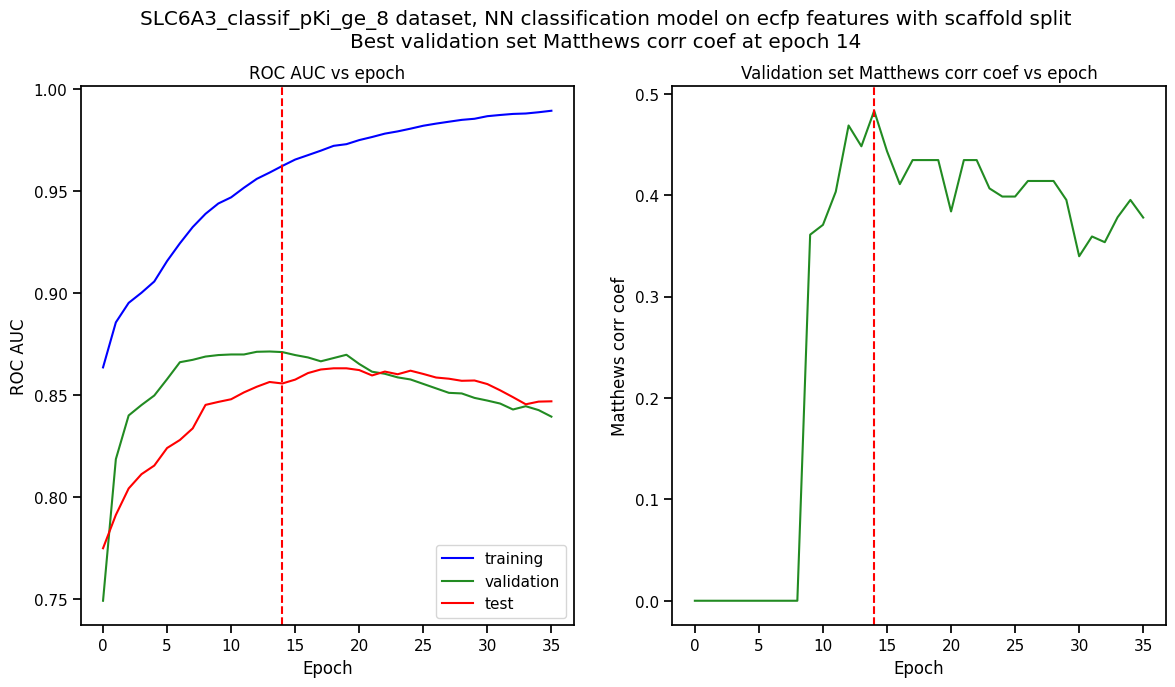
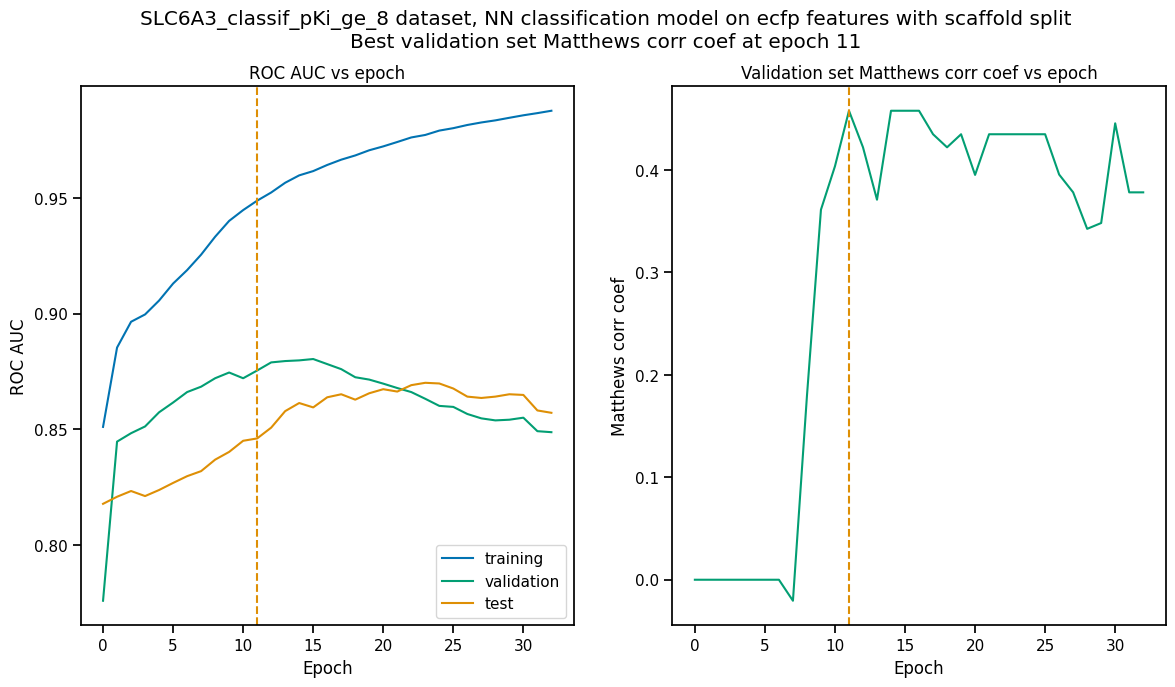
updated 09

diff --git a/atomsci/ddm/docs/source/tutorials/09_visualizations_of_model_performance.rst b/atomsci/ddm/docs/source/tutorials/09_visualizations_of_model_performance.rst
@@ -49,7 +49,17 @@ import some standard packages and modules:
 
 .. parsed-literal::
 
-    Skipped loading some Jax models, missing a dependency. No module named 'jax'
+    2024-05-10 16:13:24.275406: I tensorflow/tsl/cuda/cudart_stub.cc:28] Could not find cuda drivers on your machine, GPU will not be used.
+    2024-05-10 16:13:24.332150: E tensorflow/compiler/xla/stream_executor/cuda/cuda_dnn.cc:9342] Unable to register cuDNN factory: Attempting to register factory for plugin cuDNN when one has already been registered
+    2024-05-10 16:13:24.332221: E tensorflow/compiler/xla/stream_executor/cuda/cuda_fft.cc:609] Unable to register cuFFT factory: Attempting to register factory for plugin cuFFT when one has already been registered
+    2024-05-10 16:13:24.332259: E tensorflow/compiler/xla/stream_executor/cuda/cuda_blas.cc:1518] Unable to register cuBLAS factory: Attempting to register factory for plugin cuBLAS when one has already been registered
+    2024-05-10 16:13:24.341944: I tensorflow/tsl/cuda/cudart_stub.cc:28] Could not find cuda drivers on your machine, GPU will not be used.
+    2024-05-10 16:13:24.343056: I tensorflow/core/platform/cpu_feature_guard.cc:182] This TensorFlow binary is optimized to use available CPU instructions in performance-critical operations.
+    To enable the following instructions: AVX2 FMA, in other operations, rebuild TensorFlow with the appropriate compiler flags.
+    2024-05-10 16:13:27.251720: W tensorflow/compiler/tf2tensorrt/utils/py_utils.cc:38] TF-TRT Warning: Could not find TensorRT
+    Skipped loading some Jax models, missing a dependency. No module named 'haiku'
+    /usr/WS2/kmelough/ampl161_env/lib/python3.9/site-packages/tqdm/auto.py:21: TqdmWarning: IProgress not found. Please update jupyter and ipywidgets. See https://ipywidgets.readthedocs.io/en/stable/user_install.html
+      from .autonotebook import tqdm as notebook_tqdm
 
 
 Visualizing the Training Process for a Neural Network Regression Model
@@ -145,16 +155,16 @@ not improve for 20 epochs after reaching a minimum.
     INFO:ATOM:Total score for epoch 0 is -1.2
     ...
     INFO:ATOM:No improvement after 20 epochs, stopping training
-    INFO:ATOM:Epoch 56: training r2_score = 0.779, validation r2_score = 0.390, test r2_score = 0.252
-    INFO:ATOM:Saved model files to 'dataset/SLC6A3_models/SLC6A3_Ki_curated/NN_computed_descriptors_scaffold_regression/885cc43a-4c8d-418f-a68f-3a64e6bbaf43/best_model'
-    INFO:ATOM:Best model from epoch 35 saved to dataset/SLC6A3_models/SLC6A3_Ki_curated/NN_computed_descriptors_scaffold_regression/885cc43a-4c8d-418f-a68f-3a64e6bbaf43/best_model
-    INFO:ATOM:Wrote model tarball to dataset/SLC6A3_models/SLC6A3_Ki_curated_model_885cc43a-4c8d-418f-a68f-3a64e6bbaf43.tar.gz
+    INFO:ATOM:Epoch 51: training r2_score = 0.766, validation r2_score = 0.396, test r2_score = 0.310
+    INFO:ATOM:Saved model files to 'dataset/SLC6A3_models/SLC6A3_Ki_curated/NN_computed_descriptors_scaffold_regression/362b134a-924b-4549-a341-cffb5ba36757/best_model'
+    INFO:ATOM:Best model from epoch 30 saved to dataset/SLC6A3_models/SLC6A3_Ki_curated/NN_computed_descriptors_scaffold_regression/362b134a-924b-4549-a341-cffb5ba36757/best_model
+    INFO:ATOM:Wrote model tarball to dataset/SLC6A3_models/SLC6A3_Ki_curated_model_362b134a-924b-4549-a341-cffb5ba36757.tar.gz
 
 
 .. parsed-literal::
 
-    ['dataset/SLC6A3_models/SLC6A3_Ki_curated/NN_computed_descriptors_scaffold_regression/885cc43a-4c8d-418f-a68f-3a64e6bbaf43/model/checkpoint1.pt', 'dataset/SLC6A3_models/SLC6A3_Ki_curated/NN_computed_descriptors_scaffold_regression/885cc43a-4c8d-418f-a68f-3a64e6bbaf43/model/checkpoint2.pt', 'dataset/SLC6A3_models/SLC6A3_Ki_curated/NN_computed_descriptors_scaffold_regression/885cc43a-4c8d-418f-a68f-3a64e6bbaf43/model/checkpoint3.pt', 'dataset/SLC6A3_models/SLC6A3_Ki_curated/NN_computed_descriptors_scaffold_regression/885cc43a-4c8d-418f-a68f-3a64e6bbaf43/model/checkpoint4.pt', 'dataset/SLC6A3_models/SLC6A3_Ki_curated/NN_computed_descriptors_scaffold_regression/885cc43a-4c8d-418f-a68f-3a64e6bbaf43/model/checkpoint5.pt']
-    dataset/SLC6A3_models/SLC6A3_Ki_curated/NN_computed_descriptors_scaffold_regression/885cc43a-4c8d-418f-a68f-3a64e6bbaf43/model/checkpoint1.pt
+    ['dataset/SLC6A3_models/SLC6A3_Ki_curated/NN_computed_descriptors_scaffold_regression/362b134a-924b-4549-a341-cffb5ba36757/model/checkpoint1.pt', 'dataset/SLC6A3_models/SLC6A3_Ki_curated/NN_computed_descriptors_scaffold_regression/362b134a-924b-4549-a341-cffb5ba36757/model/checkpoint2.pt', 'dataset/SLC6A3_models/SLC6A3_Ki_curated/NN_computed_descriptors_scaffold_regression/362b134a-924b-4549-a341-cffb5ba36757/model/checkpoint3.pt', 'dataset/SLC6A3_models/SLC6A3_Ki_curated/NN_computed_descriptors_scaffold_regression/362b134a-924b-4549-a341-cffb5ba36757/model/checkpoint4.pt', 'dataset/SLC6A3_models/SLC6A3_Ki_curated/NN_computed_descriptors_scaffold_regression/362b134a-924b-4549-a341-cffb5ba36757/model/checkpoint5.pt']
+    dataset/SLC6A3_models/SLC6A3_Ki_curated/NN_computed_descriptors_scaffold_regression/362b134a-924b-4549-a341-cffb5ba36757/model/checkpoint1.pt
 
 
 We now use the ``plot_perf_vs_epoch`` function to show how the
@@ -417,8 +427,7 @@ First, we will plot a |matrix| for each
 split subset. A confusion matrix is simply a table that shows the
 numbers of compounds with each possible class that are predicted to
 belong to that class and each other class.
-|ampl| provides the
-function ``plot_confusion_matrices`` to draw the confusion matrix for
+|ampl| provides the function ``plot_confusion_matrices`` to draw the confusion matrix for
 each subset:
 
 .. code:: ipython3
@@ -608,76 +617,77 @@ obtained as a nested dictionary using the function
 
 .. parsed-literal::
 
+
     {
         "active": {
             "train": {
-                "roc_auc": 0.9534207289864063,
-                "prc_auc": 0.7756610803118112,
-                "accuracy": 0.8633150039277298,
-                "precision": 0.48717948717948717,
-                "recall": 0.9156626506024096,
-                "bal_accuracy": 0.8855639359606446,
-                "npv": 0.9854318418314256,
-                "cross_entropy": 0.28670199338803964,
-                "kappa": 0.5613039947713454,
-                "MCC": 0.6036917826060559,
+                "roc_auc": 0.9839738357222929,
+                "prc_auc": 0.8866116456224803,
+                "accuracy": 0.9269442262372348,
+                "precision": 0.6442687747035574,
+                "recall": 0.9819277108433735,
+                "bal_accuracy": 0.9503134489176217,
+                "npv": 0.9970588235294118,
+                "cross_entropy": 0.17187009506671735,
+                "kappa": 0.7365568068786424,
+                "MCC": 0.759997950847689,
                 "confusion_matrix": [
                     [
                         [
-                            947,
-                            160
+                            1017,
+                            90
                         ],
                         [
-                            14,
-                            152
+                            3,
+                            163
                         ]
                     ]
                 ]
             },
             "valid": {
-                "roc_auc": 0.8631195335276968,
-                "prc_auc": 0.49986008588727204,
-                "accuracy": 0.8424908424908425,
-                "precision": 0.35294117647058826,
-                "recall": 0.6428571428571429,
-                "bal_accuracy": 0.7540816326530613,
-                "npv": 0.954954954954955,
-                "cross_entropy": 0.3210928434802311,
-                "kappa": 0.3726150392817059,
-                "MCC": 0.39555215019049894,
+                "roc_auc": 0.8443148688046648,
+                "prc_auc": 0.48576226827635516,
+                "accuracy": 0.8827838827838828,
+                "precision": 0.4411764705882353,
+                "recall": 0.5357142857142857,
+                "bal_accuracy": 0.7290816326530611,
+                "npv": 0.9456066945606695,
+                "cross_entropy": 0.32558061545729045,
+                "kappa": 0.4184529356943151,
+                "MCC": 0.4209629887651163,
                 "confusion_matrix": [
                     [
                         [
-                            212,
-                            33
+                            226,
+                            19
                         ],
                         [
-                            10,
-                            18
+                            13,
+                            15
                         ]
                     ]
                 ]
             },
             "test": {
-                "roc_auc": 0.8585276967930029,
-                "prc_auc": 0.4167812519638371,
-                "accuracy": 0.8681318681318682,
-                "precision": 0.42,
-                "recall": 0.75,
-                "bal_accuracy": 0.8158163265306122,
-                "npv": 0.968609865470852,
-                "cross_entropy": 0.29946132217711685,
-                "kappa": 0.46858440575321725,
-                "MCC": 0.49543786727814804,
+                "roc_auc": 0.8563411078717201,
+                "prc_auc": 0.5286311317357362,
+                "accuracy": 0.8717948717948718,
+                "precision": 0.41025641025641024,
+                "recall": 0.5714285714285714,
+                "bal_accuracy": 0.7387755102040816,
+                "npv": 0.9487179487179487,
+                "cross_entropy": 0.2981516587921453,
+                "kappa": 0.4067796610169492,
+                "MCC": 0.41403933560541256,
                 "confusion_matrix": [
                     [
                         [
-                            216,
-                            29
+                            222,
+                            23
                         ],
                         [
-                            7,
-                            21
+                            12,
+                            16
                         ]
                     ]
                 ]
@@ -686,10 +696,11 @@ obtained as a nested dictionary using the function
     }
 
 
+
 Plotting ROC and Precision-Recall Curves
 ****************************************
 
-A |characteristic|
+A `receiver operating characteristic <https://en.wikipedia.org/wiki/Receiver_operating_characteristic>`_ 
 curve is a commonly used plot for assessing the performance of a binary
 classifier. It is generated from lists of true classes and predicted
 probabilities for the positive class by varying a threshold on the class
@@ -724,8 +735,8 @@ usually doesn't decrease monotonically, especially for imbalanced
 datasets where the validation and test sets have very small numbers of
 active compounds.
 
-|ampl| provides the
-function ``plot_prec_recall_curve`` to draw precision vs recall curves
+|ampl|
+provides the function ``plot_prec_recall_curve`` to draw precision vs recall curves
 for the training, validation and test sets on one plot. The area under
 the curve, also known as the ``average precision (AP)``, is computed as
 well and shown in the figure legend.
